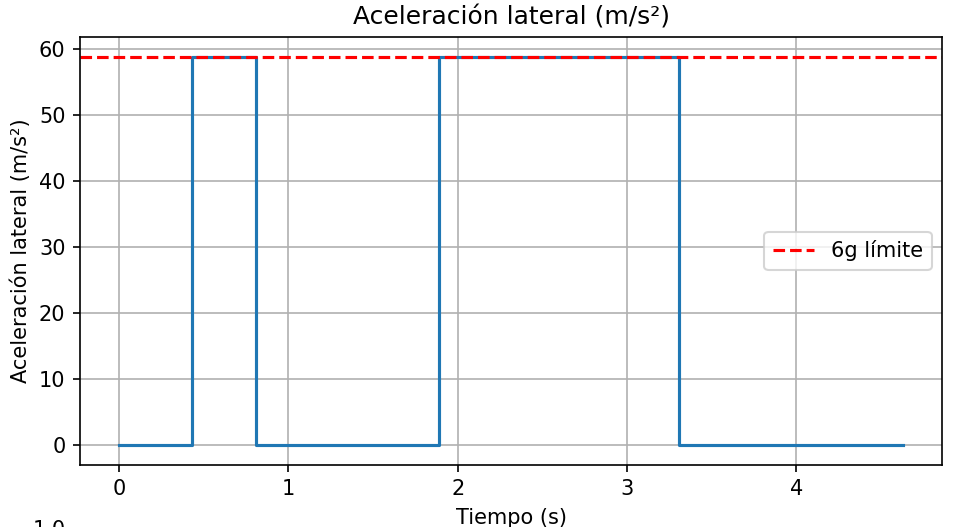
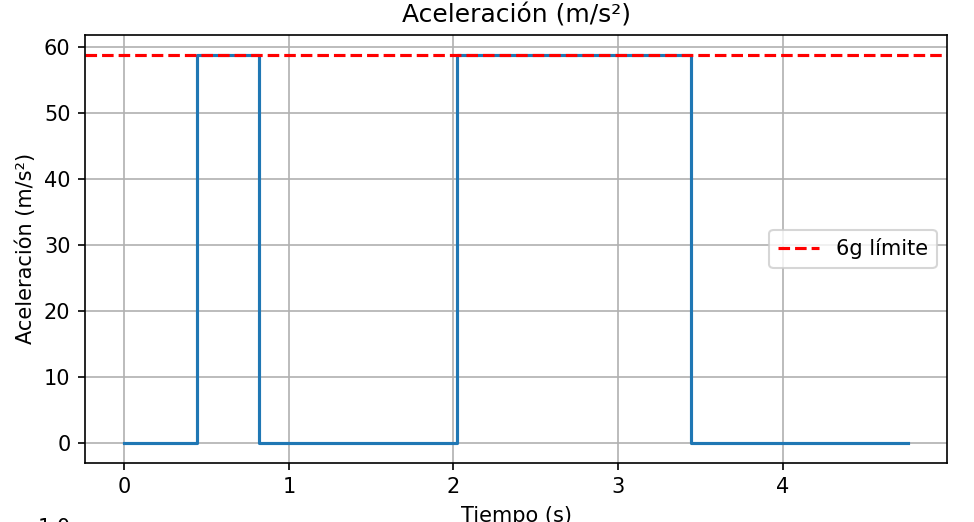
yata

Changed region(s): [[0.0, 0.0, 1.0, 1.0], [0.7879, 0.9195, 0.8485, 0.9502], [0.0303, 0.9808, 0.0909, 1.0]]

diff --git a/tp1.py b/tp1.py
@@ -37,21 +37,20 @@ def angulo_arco(centro, p_inicio, p_fin):
     cos_theta = np.dot(v1, v2) / (np.linalg.norm(v1)*np.linalg.norm(v2))
     return np.arccos(np.clip(cos_theta, -1.0, 1.0))
 
-def rk4(f, y0, t):
+def rk4(f, y0, t, *args, **kwargs):
     y = np.zeros((len(t), len(y0)))
     y[0] = y0
     for i in range(1, len(t)):
         dt = t[i] - t[i-1]
-        k1 = f(y[i-1], t[i-1])
-        k2 = f(y[i-1] + dt/2 * k1, t[i-1] + dt/2)
-        k3 = f(y[i-1] + dt/2 * k2, t[i-1] + dt/2)
-        k4 = f(y[i-1] + dt * k3, t[i-1] + dt)
+        k1 = f(y[i-1], t[i-1], *args, **kwargs)
+        k2 = f(y[i-1] + dt/2 * k1, t[i-1] + dt/2, *args, **kwargs)
+        k3 = f(y[i-1] + dt/2 * k2, t[i-1] + dt/2, *args, **kwargs)
+        k4 = f(y[i-1] + dt * k3, t[i-1] + dt, *args, **kwargs)
         y[i] = y[i-1] + dt/6 * (k1 + 2*k2 + 2*k3 + k4)
     return y
 
 def aceleracion_lateral(v, r):
     return v**2 / r if r > 0 else 0
-
 
 def fuerza_recta(v, v_max_curva):
     if v > v_max_curva:
@@ -63,35 +62,30 @@ def fuerza_recta(v, v_max_curva):
 
 def f_recta(y, t, longitud, v_max_curva):
     x, v = y
-    F = fuerza_recta(v, v_max_curva)
-    a = F / MASA
-    if x >= longitud:
-        a = 0
+    a = fuerza_recta(v, v_max_curva) / MASA if x < longitud else 0
     return np.array([v, a])
 
-def f_curva_rk4(y, t):
-    theta, omega = y
+def f_curva(y, t):
+    _, omega = y
     return np.array([omega, 0])
 
 def simular_trayectoria():
-    d_recta1 = distancia_puntos(puntos['p1'], puntos['p2'])
+    d1 = distancia_puntos(puntos['p1'], puntos['p2'])
     ang1 = angulo_arco(centros['arco1'], puntos['p2'], puntos['p3'])
-    d_recta2 = distancia_puntos(puntos['p3'], puntos['p4'])
+    d2 = distancia_puntos(puntos['p3'], puntos['p4'])
     ang2 = angulo_arco(centros['arco2'], puntos['p4'], puntos['p5'])
-    d_recta_final = distancia_puntos(puntos['p5'], puntos['p6'])
+    d3 = distancia_puntos(puntos['p5'], puntos['p6'])
 
     segmentos = [
-        ('recta', d_recta1, None),
+        ('recta', d1, radios['arco1']),
         ('curva', radios['arco1'], ang1),
-        ('recta', d_recta2, None),
+        ('recta', d2, radios['arco2']),
         ('curva', radios['arco2'], ang2),
-        ('recta', d_recta_final, None)
+        ('recta', d3, None)
     ]
 
-    tiempos_totales = []
-    posiciones_totales = []
-    velocidades_totales = []
-    fuerzas_totales = []
+    tiempos_totales, posiciones_totales = [], []
+    velocidades_totales, fuerzas_totales = [], []
     aceleraciones_lat_totales = []
 
     v_actual = V_INICIAL
@@ -99,96 +93,62 @@ def simular_trayectoria():
     tiempo_acum = 0
 
     for i, tramo in enumerate(segmentos):
-        tipo = tramo[0]
+        tipo, valor1, valor2 = tramo
         print(f"\n--- Tramo {i+1}: Tipo = {tipo} ---")
-        print(f"Velocidad inicial tramo: {v_actual:.2f} m/s")
+        print(f"Velocidad inicial: {v_actual:.2f} m/s")
 
         if tipo == 'recta':
-            longitud = tramo[1]
-            radio_curva_siguiente = tramo[2]
-
-
-            if radio_curva_siguiente is None:
-                v_max_curva = np.inf
-            else:
-                v_max_curva = np.sqrt(A_MAX * radio_curva_siguiente)
+            longitud = valor1
+            radio_curva_siguiente = valor2
+            v_max_curva = np.sqrt(A_MAX * radio_curva_siguiente) if radio_curva_siguiente else np.inf
 
             y0 = np.array([0, v_actual])
             t = np.arange(0, 60, DT)
-            res = [y0]
-            tiempo_real = [0]
+            res = rk4(f_recta, y0, t, longitud, v_max_curva)
 
-            for j in range(1, len(t)):
-                dt = t[j] - t[j-1]
-                k1 = f_recta(res[-1], t[j-1], longitud, v_max_curva)
-                k2 = f_recta(res[-1] + dt/2 * k1, t[j-1] + dt/2, longitud, v_max_curva)
-                k3 = f_recta(res[-1] + dt/2 * k2, t[j-1] + dt/2, longitud, v_max_curva)
-                k4 = f_recta(res[-1] + dt * k3, t[j-1] + dt, longitud, v_max_curva)
-                y_next = res[-1] + dt/6 * (k1 + 2*k2 + 2*k3 + k4)
+            idx_final = np.argmax(res[:,0] >= longitud)
+            if res[idx_final, 0] > longitud:
+                res[idx_final, 0] = longitud
+            res = res[:idx_final+1]
+            t = t[:idx_final+1]
 
-                if j % 100 == 0:
-                    a_actual = f_recta(res[-1], t[j-1], longitud, v_max_curva)[1]
-                    print(f"t={t[j]:.2f}s, pos={y_next[0]:.2f}m, v={y_next[1]:.2f}m/s, a={a_actual:.2f}m/s²")
-
-                if y_next[0] >= longitud:
-                    y_next[0] = longitud
-                    res.append(y_next)
-                    tiempo_real.append(t[j])
-                    break
-                res.append(y_next)
-                tiempo_real.append(t[j])
-
-            res = np.array(res)
-            t_tramo = tiempo_real[-1]
             v_actual = res[-1,1]
             pos_acum += longitud
-            tiempo_acum += t_tramo
+            tiempo_acum += t[-1]
 
-            print(f"Velocidad final tramo recta: {v_actual:.2f} m/s")
-            print(f"Tiempo tramo recta: {t_tramo:.2f} s")
-            print(f"Distancia tramo recta: {longitud:.2f} m")
+            print(f"Tiempo tramo recta: {t[-1]:.2f} s")
 
-            tiempos_totales.extend(tiempo_acum - t_tramo + np.array(tiempo_real))
+            tiempos_totales.extend(tiempo_acum - t[-1] + t)
             posiciones_totales.extend(pos_acum - longitud + res[:,0])
             velocidades_totales.extend(res[:,1])
-            fuerzas_totales.extend([
-                fuerza_recta(v, v_max_curva) for v in res[:,1]
-            ])
+            fuerzas_totales.extend([fuerza_recta(v, v_max_curva) for v in res[:,1]])
             aceleraciones_lat_totales.extend([0]*len(res))
 
         elif tipo == 'curva':
-            radio = tramo[1]
-            angulo = tramo[2]
-
+            radio, angulo = valor1, valor2
             v_max = np.sqrt(A_MAX * radio)
             v_actual = min(v_actual, v_max)
+            omega = v_actual / radio
 
-            t_angular = np.arange(0, angulo / (v_actual / radio) + DT, DT)
-            y0 = np.array([0, v_actual / radio])
+            t = np.arange(0, angulo / omega + DT, DT)
+            y0 = np.array([0, omega])
+            res = rk4(f_curva, y0, t)
 
-            res = rk4(f_curva_rk4, y0, t_angular)
-
-            tiempo_acum += t_angular[-1]
+            tiempo_acum += t[-1]
             pos_acum += radio * angulo
 
-            print(f"Velocidad tramo curva: {v_actual:.2f} m/s")
-            print(f"Tiempo tramo curva: {t_angular[-1]:.2f} s")
-            print(f"Longitud arco curva: {radio*angulo:.2f} m")
-            print(f"Aceleración lateral máxima permitida: {A_MAX:.2f} m/s²")
+            print(f"Tiempo tramo curva: {t[-1]:.2f} s")
 
-            tiempos_totales.extend(tiempos_totales[-1] + t_angular if tiempos_totales else t_angular)
-            posiciones_totales.extend([pos_acum - radio*angulo + radio*res[i,0] for i in range(len(res))])
-            velocidades_totales.extend([omega*radio for _, omega in res])
+            tiempos_totales.extend(tiempos_totales[-1] + t if tiempos_totales else t)
+            posiciones_totales.extend([pos_acum - radio*angulo + radio * y[0] for y in res])
+            velocidades_totales.extend([y[1] * radio for y in res])
             fuerzas_totales.extend([0]*len(res))
-            aceleraciones_lat_totales.extend([aceleracion_lateral(omega*radio, radio) for _, omega in res])
-
-        else:
-            raise ValueError("Tipo de tramo desconocido")
+            aceleraciones_lat_totales.extend([aceleracion_lateral(y[1]*radio, radio) for y in res])
 
     return np.array(tiempos_totales)
 
 
 def main():
     tiempos = simular_trayectoria()
-    print(f"Tiempo total de la trayectoria: {tiempos[-1]:.2f} segundos")
+    print(f"\nTiempo total de la trayectoria: {tiempos[-1]:.2f} segundos")
 main()
